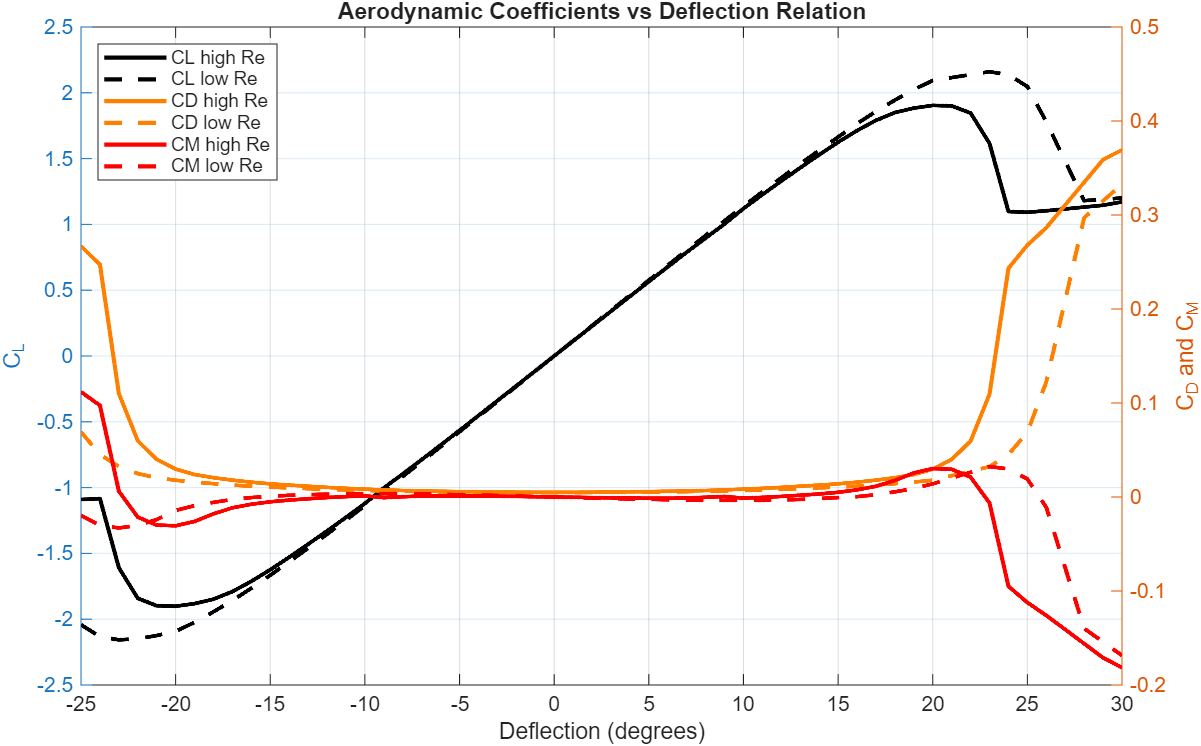
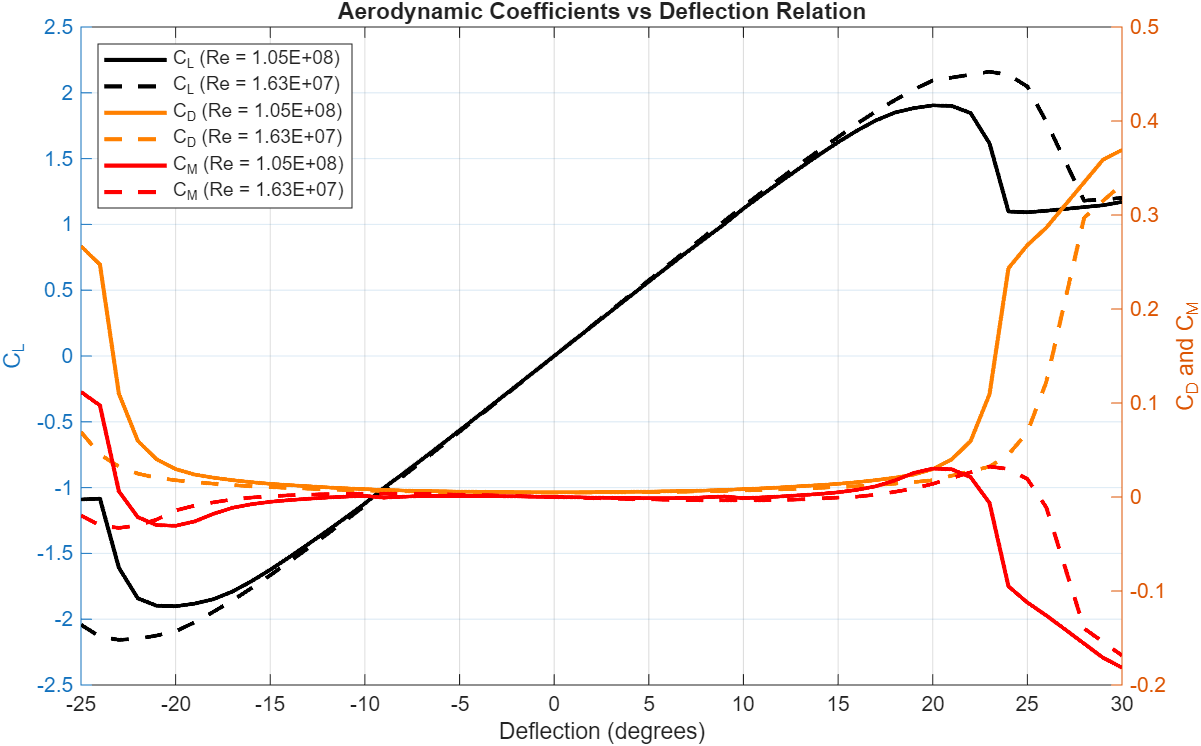
Added External loads to plotting
Also, now it shows the Reynolds' number value

Changed region(s): [[0.0924, 0.0617, 0.3081, 0.2775]]

diff --git a/Code_files/plot_data.m b/Code_files/plot_data.m
@@ -1,4 +1,4 @@
-function plot_data(deflection, extension, F_act, CL, CD, CM) 
+function plot_data(deflection, extension, F_act, CL, CD, CM, F_x_stab, F_y_stab, M_stab, Re_high, Re_low)
 
 % 1.1 Plotting
 figure('Name', 'Actuator vs Deflection Relation')
@@ -26,7 +26,7 @@ plot(deflection, F_act(2, :), 'black', LineStyle = '--', LineWidth=2);
 ylabel('Force on the Actuator (Newtons)');
 xlabel('Deflection (degrees)');
 xlim([min(deflection) max(deflection)])
-legend('High Re', 'Low Re', Location='best')
+legend(sprintf('Re = %.2E', Re_high), sprintf('Re = %.2E', Re_low), Location='best')
 title('Force on the Actuator vs Deflection Relation');
 grid on;
 
@@ -51,12 +51,43 @@ plot(deflection, CM(2, :), 'red', LineStyle="--", LineWidth=2);
 ylabel('C_D and C_M');
 xlabel('Deflection (degrees)');
 xlim([min(deflection) max(deflection)])
-legend('CL high Re', 'CL low Re', 'CD high Re', 'CD low Re','CM high Re', 'CM low Re', Location='northwest')
+legend(sprintf('C_L (Re = %.2E)', Re_high), sprintf('C_L (Re = %.2E)', Re_low), ...
+    sprintf('C_D (Re = %.2E)', Re_high), sprintf('C_D (Re = %.2E)', Re_low), ...
+    sprintf('C_M (Re = %.2E)', Re_high), sprintf('C_M (Re = %.2E)', Re_low), ...
+    Location='northwest')
 title('Aerodynamic Coefficients vs Deflection Relation');
 grid on;
 
 % 3.2 Save the figure
 
 save_path = fullfile(script_dir, '..', 'Report', 'Media', 'Aerodynamic_coefficients.png');
+
+exportgraphics(gcf, save_path);
+
+% 4.1 Plotting
+figure('Name', 'External Loads')
+yyaxis left
+plot(deflection, F_y_stab(1, :), 'black', LineStyle="-", LineWidth=2);
+hold on
+plot(deflection, F_y_stab(2, :), 'black', LineStyle="--", LineWidth=2);
+ylabel('C_L');
+yyaxis right
+plot(deflection, F_x_stab(1, :), LineStyle="-", Color=[1, 0.5, 0], LineWidth=2);
+plot(deflection, F_x_stab(2, :), LineStyle="--", Color=[1, 0.5, 0], LineWidth=2);
+plot(deflection, M_stab(1, :), 'red', LineStyle="-", LineWidth=2);
+plot(deflection, M_stab(2, :), 'red', LineStyle="--", LineWidth=2);
+ylabel('C_D and C_M');
+xlabel('Deflection (degrees)');
+xlim([min(deflection) max(deflection)])
+legend(sprintf('F_y (Re = %.2E)', Re_high), sprintf('F_y (Re = %.2E)', Re_low), ...
+    sprintf('F_x (Re = %.2E)', Re_high), sprintf('F_x (Re = %.2E)', Re_low), ...
+    sprintf('M (Re = %.2E)', Re_high), sprintf('M (Re = %.2E)', Re_low), ...
+    Location='south')
+title('External Loads vs Deflection Relation');
+grid on;
+
+% 4.2 Save the figure
+
+save_path = fullfile(script_dir, '..', 'Report', 'Media', 'External_Loads.png');
 
 exportgraphics(gcf, save_path);

diff --git a/Code_files/Relation.m b/Code_files/Relation.m
@@ -65,5 +65,5 @@ lever_arm_actuator = 2 .* triangle_area ./ (d+extension);
 F_act = M_pivot ./ lever_arm_actuator; % [N]
 
 if should_plot_data
-    plot_data(deflection, extension, F_act, CL, CD, Cm)
+    plot_data(deflection, extension, F_act, CL, CD, Cm, F_x_stab, F_y_stab, M_stab, Re_SL, Re_Alt)
 end
